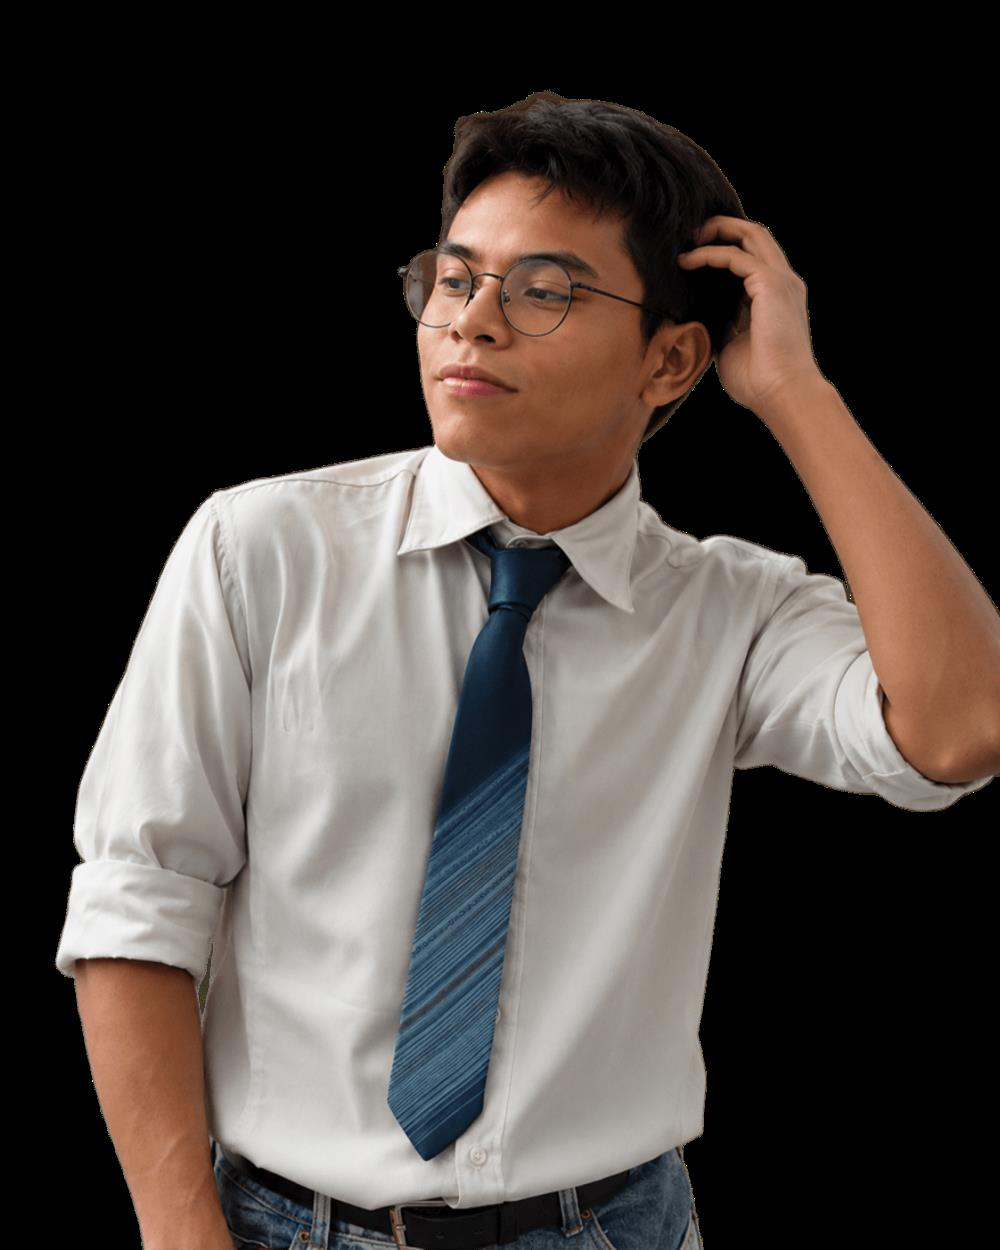
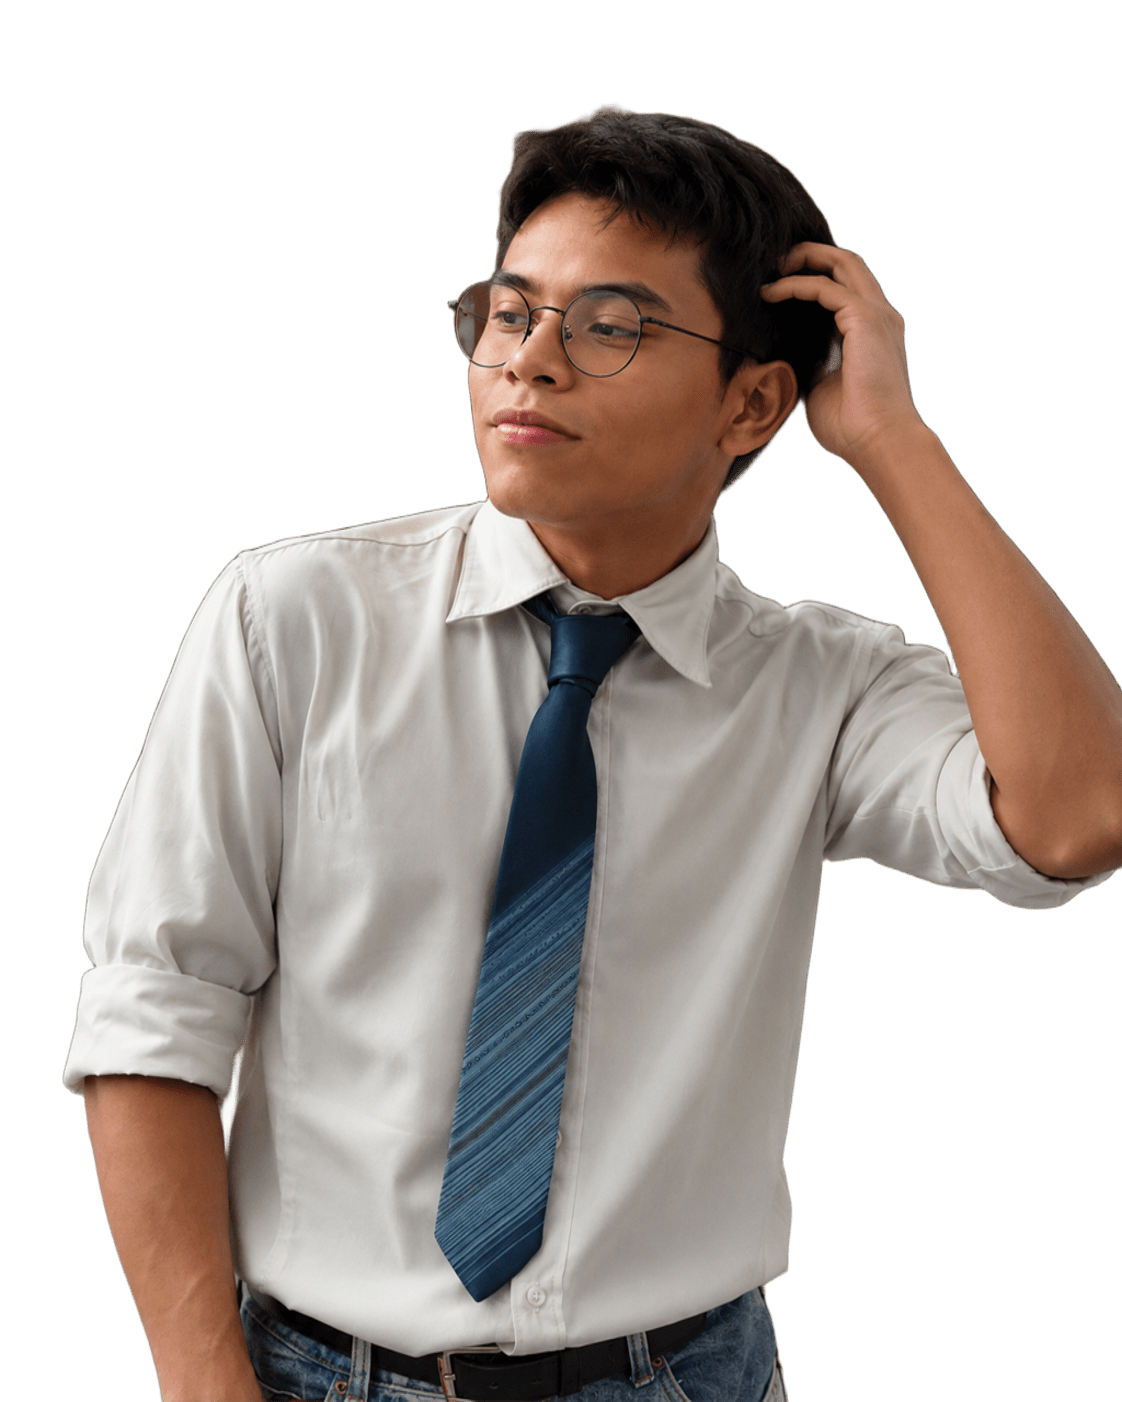
fix: restore transparent background for project.png

diff --git a/index.html b/index.html
@@ -22,7 +22,7 @@
     <link rel="stylesheet" href="assets/css/swiper-bundle.min.css">
 
     <!--==================== CSS ====================-->
-    <link rel="stylesheet" href="assets/css/styles.css?v=2.4">
+    <link rel="stylesheet" href="assets/css/styles.css?v=2.5">
 
     <title>Jaime Gabriel Hernández García | Computer Systems Engineer</title>
 </head>
@@ -1108,7 +1108,7 @@
                         </a>
                     </div>
 
-                    <img src="assets/img/project.png" alt="Project in mind" class="project__img">
+                    <img src="assets/img/project.png?v=2" alt="Project in mind" class="project__img">
                 </div>
             </div>
         </section>
@@ -1398,7 +1398,7 @@
     <script src="assets/js/swiper-bundle.min.js"></script>
 
     <!--==================== MAIN JS ====================-->
-    <script src="assets/js/main.js?v=2.3"></script>
+    <script src="assets/js/main.js?v=2.5"></script>
 </body>
 
 </html>

diff --git a/assets/css/styles.css b/assets/css/styles.css
@@ -1374,6 +1374,7 @@ body.dark-theme .insta__posts-badge {
 .project__img {
     width: 232px;
     justify-self: center;
+    align-self: flex-end;
 }
 
 /*==================== TESTIMONIAL ====================*/
